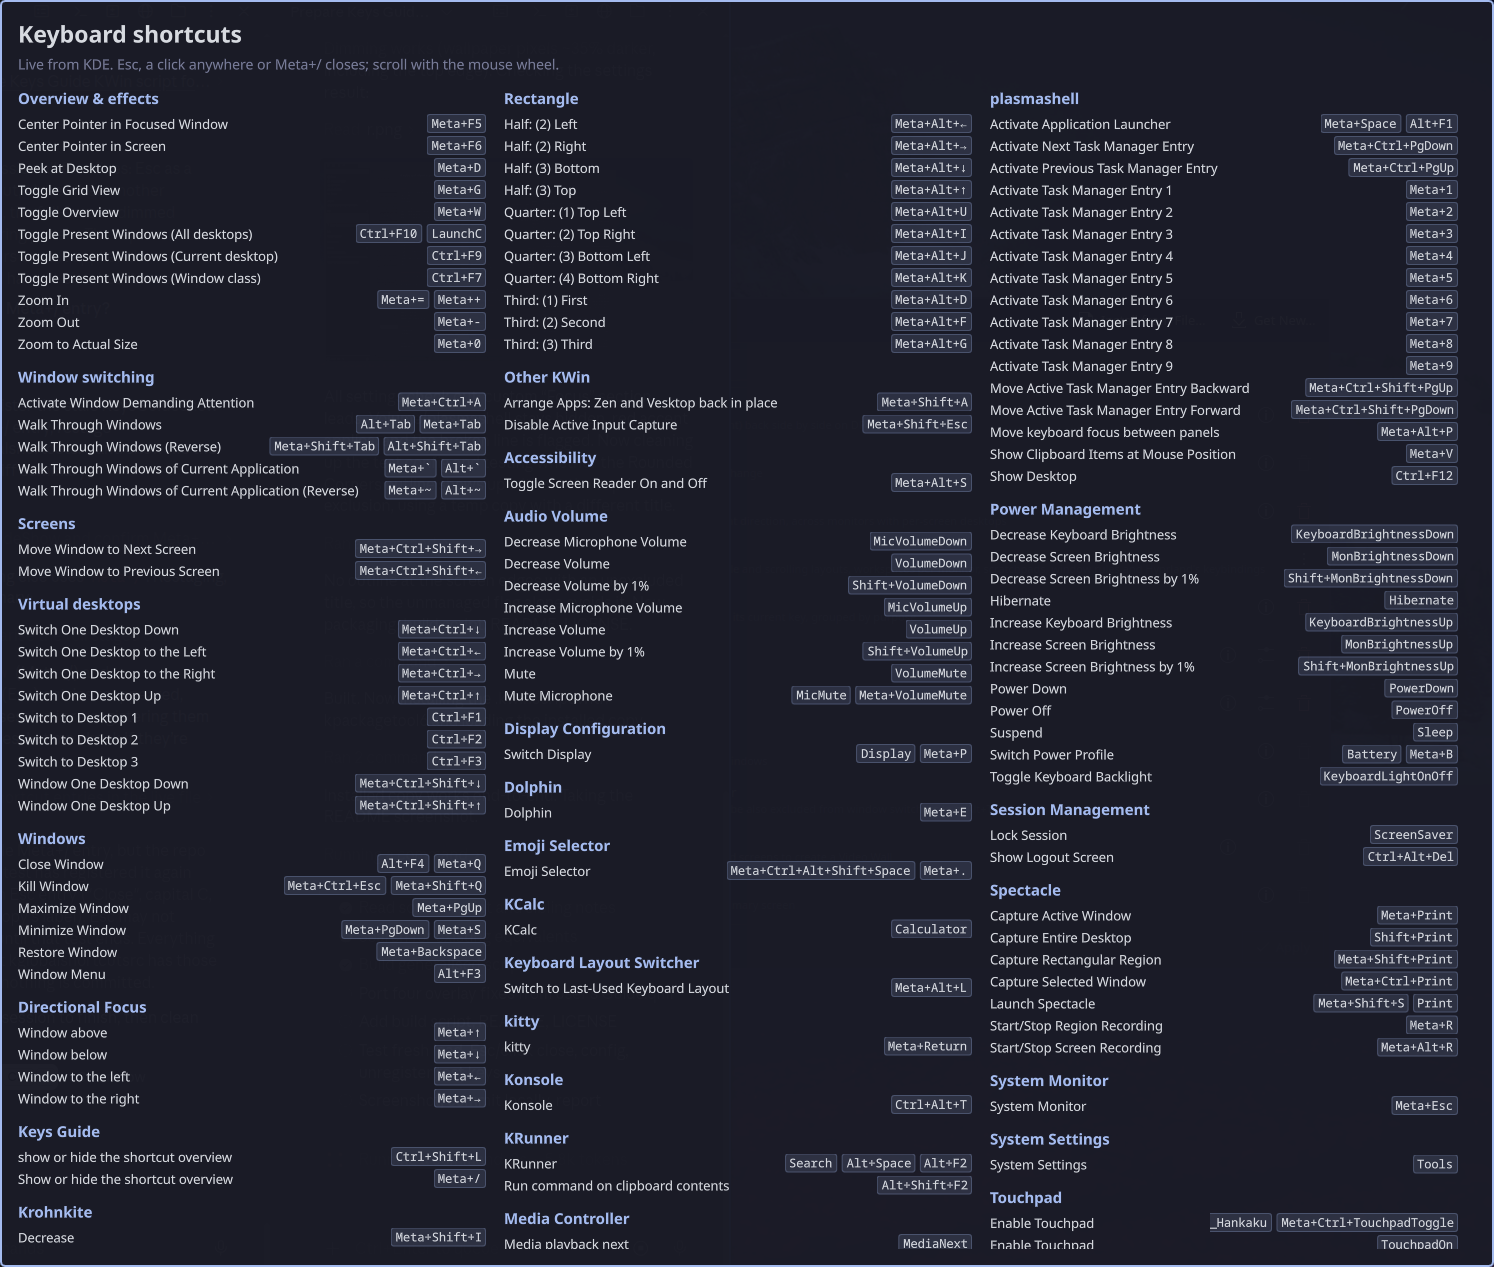
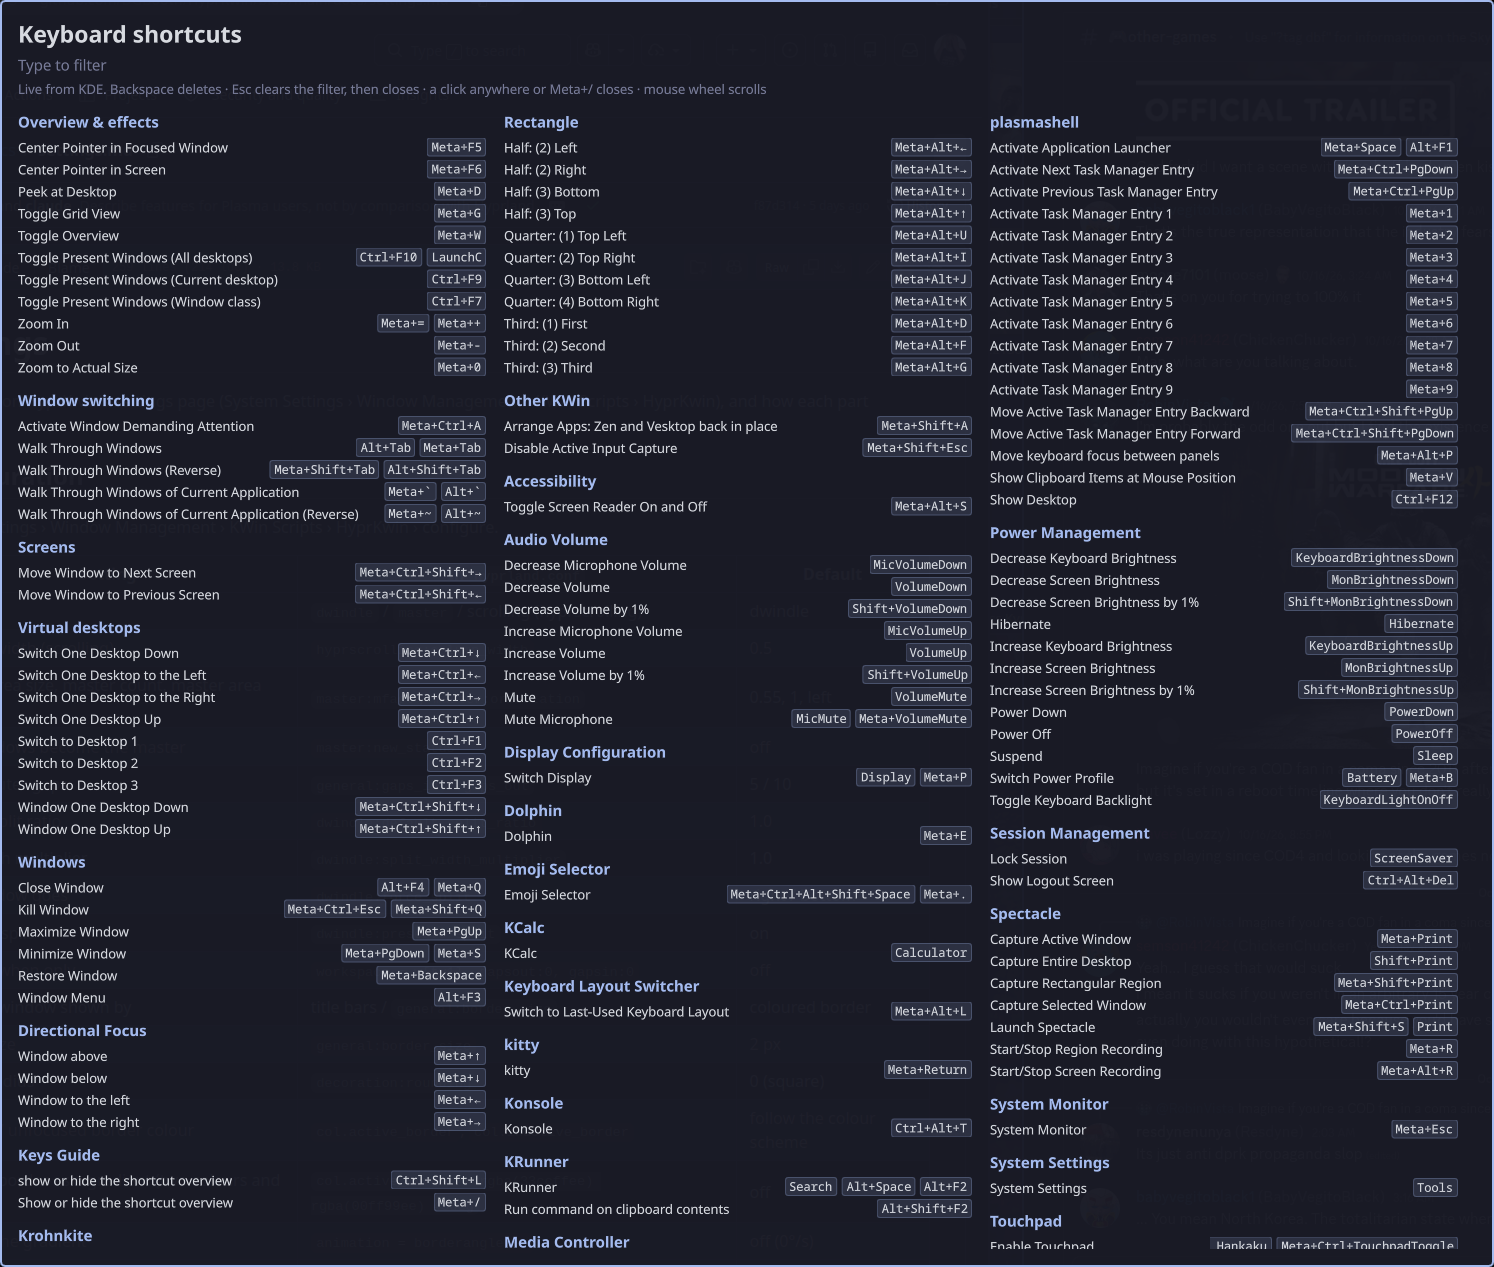
Add type-to-filter
The overlay never gets keyboard focus, so while it is open a-z, 0-9, Space,
Backspace and Escape are temporary global shortcuts that edit the filter
(Escape clears it, then closes). All 39 are unregistered from kglobalaccel
when the guide closes, and hidden from the list itself. Every typed word
must appear in the section title, label or keys. The panel keeps its height
while filtering.

diff --git a/package/contents/ui/Guide.qml b/package/contents/ui/Guide.qml
@@ -1,8 +1,8 @@
 // Keys Guide: a shortcut (Meta+/ by default) shows every global shortcut that
 // has a key, as KDE has it right now: kglobalaccel is asked over D-Bus each
 // time, so a key changed in System Settings shows up straight away.
-// Escape, a click (on it or on any other window) or the shortcut again
-// closes it.
+// Typing filters it. Escape clears the filter, then closes it; so does a
+// click (on it or on any other window) or the shortcut again.
 import QtQuick
 import QtQuick.Window as QW
 import org.kde.kwin
@@ -22,25 +22,48 @@ Item {
         onActivated: guide.visible ? guide.close() : root.load()
     }
 
-    // KWin never gives its own QML windows keyboard focus, so Escape can't
-    // reach the guide as a key press. Instead a global Escape shortcut exists
-    // only while the guide is up, and is removed from KDE's list again when
-    // it closes, so Escape goes back to the apps. (A shortcut destroyed and
-    // made again without being removed can end up deaf.)
+    // KWin never gives its own QML windows keyboard focus, so key presses
+    // can't reach the guide. Instead, while it is up, the keys it needs are
+    // global shortcuts (letters, digits and space type into the filter;
+    // Backspace deletes; Escape clears the filter, then closes), and they
+    // are all removed from KDE's list again when it closes, so the keys go
+    // back to the apps. (A shortcut destroyed and made again without being
+    // removed can end up deaf.)
+    readonly property var typedKeys: "abcdefghijklmnopqrstuvwxyz0123456789".split("").concat([" "])
+    function typeName(k) { return "KeysGuideType " + (k === " " ? "Space" : k); }
     Loader {
-        id: escapeKey
+        id: typing
         active: false
-        sourceComponent: ShortcutHandler {
-            name: "KeysGuideEscape"
-            text: "Keys Guide: Close (only while it is open)"
-            sequence: "Escape"
-            onActivated: guide.close()
+        sourceComponent: Item {
+            ShortcutHandler {
+                name: "KeysGuideEscape"
+                text: "Keys Guide: Clear the filter, or close (only while it is open)"
+                sequence: "Escape"
+                onActivated: guide.query ? guide.query = "" : guide.close()
+            }
+            ShortcutHandler {
+                name: "KeysGuideBackspace"
+                text: "Keys Guide: Delete a filter letter (only while it is open)"
+                sequence: "Backspace"
+                onActivated: guide.query = guide.query.slice(0, -1)
+            }
+            Instantiator {
+                model: root.typedKeys
+                delegate: ShortcutHandler {
+                    required property string modelData
+                    name: root.typeName(modelData)
+                    text: "Keys Guide: Type into the filter (only while it is open)"
+                    sequence: modelData === " " ? "Space" : modelData.toUpperCase()
+                    onActivated: guide.query += modelData
+                }
+            }
         }
     }
-    function releaseEscape() {
-        if (!escapeKey.active) return;
-        escapeKey.active = false;
-        dbus("/kglobalaccel", "org.kde.KGlobalAccel", "unregister", ["kwin", "KeysGuideEscape"], () => {});
+    function releaseKeys() {
+        if (!typing.active) return;
+        typing.active = false;
+        const names = ["KeysGuideEscape", "KeysGuideBackspace"].concat(typedKeys.map(typeName));
+        for (const n of names) dbus("/kglobalaccel", "org.kde.KGlobalAccel", "unregister", ["kwin", n], () => {});
     }
 
     // Clicking any other window (or the desktop) activates it: close then.
@@ -116,6 +139,10 @@ Item {
         Kirigami.Theme.inherit: false
 
         property var sections: []
+        property string query: ""
+        onQueryChanged: flick.contentY = 0
+        readonly property var shown: Grouping.filter(sections, query)
+        readonly property int shownCount: shown.reduce((n, s) => n + s.rows.length, 0)
         property string ownKeys: ""
         property var errors: []
         property var area: null
@@ -140,9 +167,9 @@ Item {
         readonly property var columns: {
             const cols = [];
             for (let i = 0; i < columnCount; i++) cols.push([]);
-            const total = sections.reduce((n, s) => n + s.rows.length + 2, 0);
+            const total = shown.reduce((n, s) => n + s.rows.length + 2, 0);
             let col = 0, used = 0;
-            for (const s of sections) {
+            for (const s of shown) {
                 if (col < columnCount - 1 && used > 0 && used + (s.rows.length + 2) / 2 > total / columnCount) { col++; used = 0; }
                 cols[col].push(s);
                 used += s.rows.length + 2;
@@ -151,6 +178,7 @@ Item {
         }
 
         function open(list, own, errs, where) {
+            query = "";
             sections = list;
             ownKeys = own;
             errors = errs;
@@ -158,10 +186,16 @@ Item {
             flick.contentY = 0;
             show();
             raise();
-            escapeKey.active = true;
+            typing.active = true;
         }
 
-        onVisibleChanged: if (!visible) root.releaseEscape()
+        onVisibleChanged: if (!visible) root.releaseKeys()
+
+        // The panel keeps the height it opened with while a filter narrows
+        // the list, so it doesn't jump around under the pointer.
+        readonly property real naturalHeight: Math.min(Math.round(height * 0.88), header.height + Math.max(content.implicitHeight, unit * 3) + unit * 3)
+        property real keptHeight: 0
+        onNaturalHeightChanged: if (!query) keptHeight = naturalHeight
 
         Rectangle {
             anchors.fill: parent
@@ -172,7 +206,7 @@ Item {
         Rectangle {
             id: panel
             width: Math.min(Math.round(guide.width * 0.92), guide.columnCount * (guide.columnWidth + guide.unit) + guide.unit * 2)
-            height: Math.min(Math.round(guide.height * 0.88), header.height + Math.max(content.implicitHeight, guide.unit * 3) + guide.unit * 3)
+            height: guide.query ? Math.max(guide.keptHeight, guide.naturalHeight) : guide.naturalHeight
             anchors.centerIn: parent
             radius: Kirigami.Units.cornerRadius
             color: Qt.alpha(Kirigami.Theme.backgroundColor, 0.97)
@@ -193,12 +227,20 @@ Item {
                     font.bold: true
                 }
                 Text {
+                    text: guide.query
+                        ? "Filter: " + guide.query + "\u258f   " + guide.shownCount + (guide.shownCount === 1 ? " match" : " matches")
+                        : "Type to filter"
+                    color: guide.query ? guide.accent : Kirigami.Theme.disabledTextColor
+                    font.pixelSize: guide.unit * 0.85
+                    font.family: guide.query ? "monospace" : Kirigami.Theme.defaultFont.family
+                }
+                Text {
                     width: parent.width
                     wrapMode: Text.WordWrap
-                    text: "Live from KDE. Esc, a click anywhere" + (guide.ownKeys ? " or " + guide.ownKeys : "")
-                          + " closes; scroll with the mouse wheel."
+                    text: "Live from KDE. Backspace deletes · Esc clears the filter, then closes · a click anywhere"
+                          + (guide.ownKeys ? " or " + guide.ownKeys : "") + " closes · mouse wheel scrolls"
                     color: Kirigami.Theme.disabledTextColor
-                    font.pixelSize: guide.unit * 0.75
+                    font.pixelSize: guide.unit * 0.7
                 }
                 Text {
                     visible: guide.errors.length > 0
@@ -212,8 +254,8 @@ Item {
 
             Text {
                 anchors.centerIn: flick
-                visible: guide.sections.length === 0
-                text: "No global shortcuts have a key"
+                visible: guide.shownCount === 0
+                text: guide.query ? "No shortcuts match \u201c" + guide.query + "\u201d" : "No global shortcuts have a key"
                 color: Kirigami.Theme.disabledTextColor
                 font.pixelSize: guide.unit * 0.9
             }

diff --git a/package/contents/ui/Grouping.js b/package/contents/ui/Grouping.js
@@ -69,6 +69,7 @@ function parsePattern(text) {
 function rowsOf(path, infos, names) {
     var out = [];
     (infos || []).forEach(function (r) {
+        if (/^KeysGuide(Escape|Backspace|Type )/.test(String(r[0]))) return;   // the guide's own typing keys
         var keys = [];
         (r[6] || []).forEach(function (k) { var t = keyText(k, names); if (t) keys.push(t); });
         if (!keys.length) return;
@@ -159,6 +160,22 @@ function sections(rows, options) {
             return { title: title, rows: byTitle[title].sort(function (a, b) { return cmp(a.label, b.label); }) };
         })
         .filter(function (s) { return s.rows.length; });
+}
+
+// Sections with only the rows whose section title, label or keys contain
+// every word of the query (ignoring case).
+function filter(list, query) {
+    var words = String(query || "").toLowerCase().split(/\s+/).filter(function (w) { return w; });
+    if (!words.length) return list;
+    var out = [];
+    list.forEach(function (s) {
+        var rows = s.rows.filter(function (row) {
+            var hay = (s.title + " " + row.label + " " + row.keys.join(" ")).toLowerCase();
+            return words.every(function (w) { return hay.indexOf(w) >= 0; });
+        });
+        if (rows.length) out.push({ title: s.title, rows: rows });
+    });
+    return out;
 }
 
 function cmp(a, b) { return String(a).localeCompare(String(b)); }

diff --git a/README.md b/README.md
@@ -2,8 +2,8 @@
 
 A KWin script for KDE Plasma 6 that shows every global shortcut you have, with
 the key it has **right now**, in one overlay. Press <kbd>Meta</kbd>+<kbd>/</kbd>
-to open it. Press <kbd>Esc</kbd>, click anywhere, or press the shortcut again to
-close it.
+to open it, and type to filter it. Press <kbd>Esc</kbd> to clear the filter
+and again to close, or click anywhere, or press the shortcut again.
 
 ![Keys Guide overlay](docs/screenshot.png)
 
@@ -11,6 +11,9 @@ close it.
   each time it opens. A key you change in System Settings shows up straight
   away, and so do the shortcuts of any KWin script, app or Plasma part.
 - **Only bound shortcuts.** Actions without a key aren't shown.
+- **Type to filter.** Letters, digits and spaces narrow the list. Every word
+  you type has to appear in the shortcut's name, its keys or its section, so
+  `meta shift` shows everything on Meta+Shift. <kbd>Backspace</kbd> deletes.
 - **Grouped.** KWin's own actions are split into *Overview & effects*,
   *Window switching*, *Screens*, *Virtual desktops*, *Windows* and *Other
   KWin*. Each KWin script whose shortcuts are labelled `Script name: …` gets
@@ -46,10 +49,13 @@ Shortcuts › KWin and find **Keys Guide: Show or hide the shortcut overview**.
 take a key from apps. On layouts where `/` needs <kbd>Shift</kbd> (German,
 Nordic and others), the default may not trigger. Rebind it there.
 
-While the guide is open, it also registers **Keys Guide: Close (only while it
-is open)** on <kbd>Esc</kbd>. It removes that again when the guide closes, so
-<kbd>Esc</kbd> goes back to your apps. If you see that entry in System
-Settings while the guide is closed, it's a leftover and safe to remove.
+While the guide is open, it also holds 39 keys as temporary global shortcuts:
+<kbd>a</kbd>–<kbd>z</kbd>, <kbd>0</kbd>–<kbd>9</kbd>, <kbd>Space</kbd>,
+<kbd>Backspace</kbd> and <kbd>Esc</kbd> (see [Gotchas](#gotchas) for why).
+It removes them all from kglobalaccel when it closes, so the keys go back to
+your apps. If you see **Keys Guide: Type into the filter**, **Delete a filter
+letter** or **Clear the filter, or close** in System Settings while the guide
+is closed, they're leftovers and safe to remove.
 
 ## Settings
 
@@ -75,10 +81,13 @@ action ids in `~/.config/kglobalshortcutsrc`.
 
 ## Gotchas
 
-- **No typing or arrow keys.** KWin never gives keyboard focus to a script's
-  own windows. So the guide can't be filtered by typing, and arrow keys don't
-  scroll it. Use the mouse wheel. <kbd>Esc</kbd> works through the temporary
-  global shortcut described above.
+- **Typing works through global shortcuts.** KWin never gives keyboard focus
+  to a script's own windows, so key presses can't reach the guide. Instead,
+  the keys it needs are global shortcuts while it's open (see above). Only
+  plain letters, digits and space can be typed, and arrow keys don't scroll:
+  use the mouse wheel. While the guide is open, those keys don't reach your
+  apps. If another global shortcut already uses one of them as a bare key,
+  that letter won't type.
 - **Covers the whole monitor.** The overlay is an unmanaged window covering
   the active monitor, panels included. That's how a click anywhere can close
   it.
